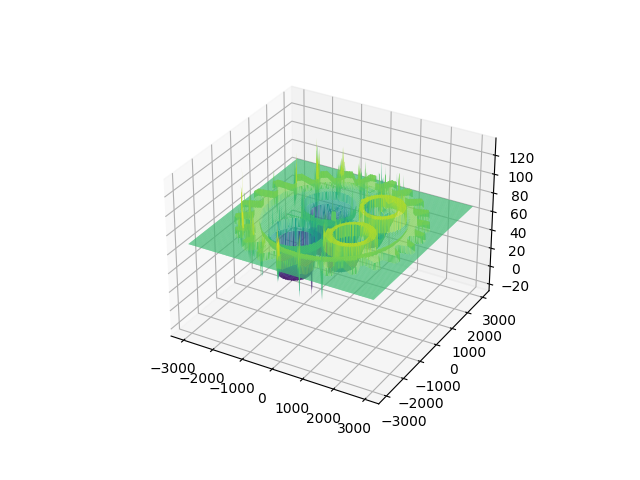
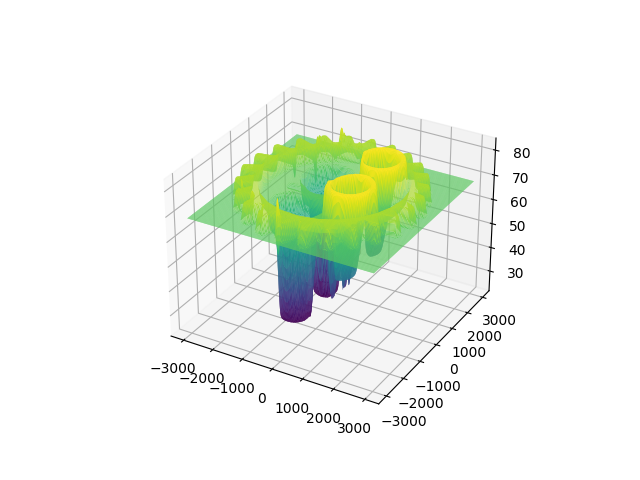
Gaussian filter

diff --git a/Engrane/13º/Algorithm-eng13.py b/Engrane/13º/Algorithm-eng13.py
@@ -7,6 +7,7 @@ import cv2
 from PIL import Image
 from skimage import data, img_as_float, color, exposure
 from skimage.restoration import unwrap_phase
+from scipy.ndimage import gaussian_filter
 
 #Functions
 
@@ -121,6 +122,7 @@ z=reconst(realphase_ob,realphase_r,l,d,f)
 #l=np.where(z>-20.) 
 #z[l]=-32.
 
+z=gaussian_filter(z, sigma=5)
 
 
 
